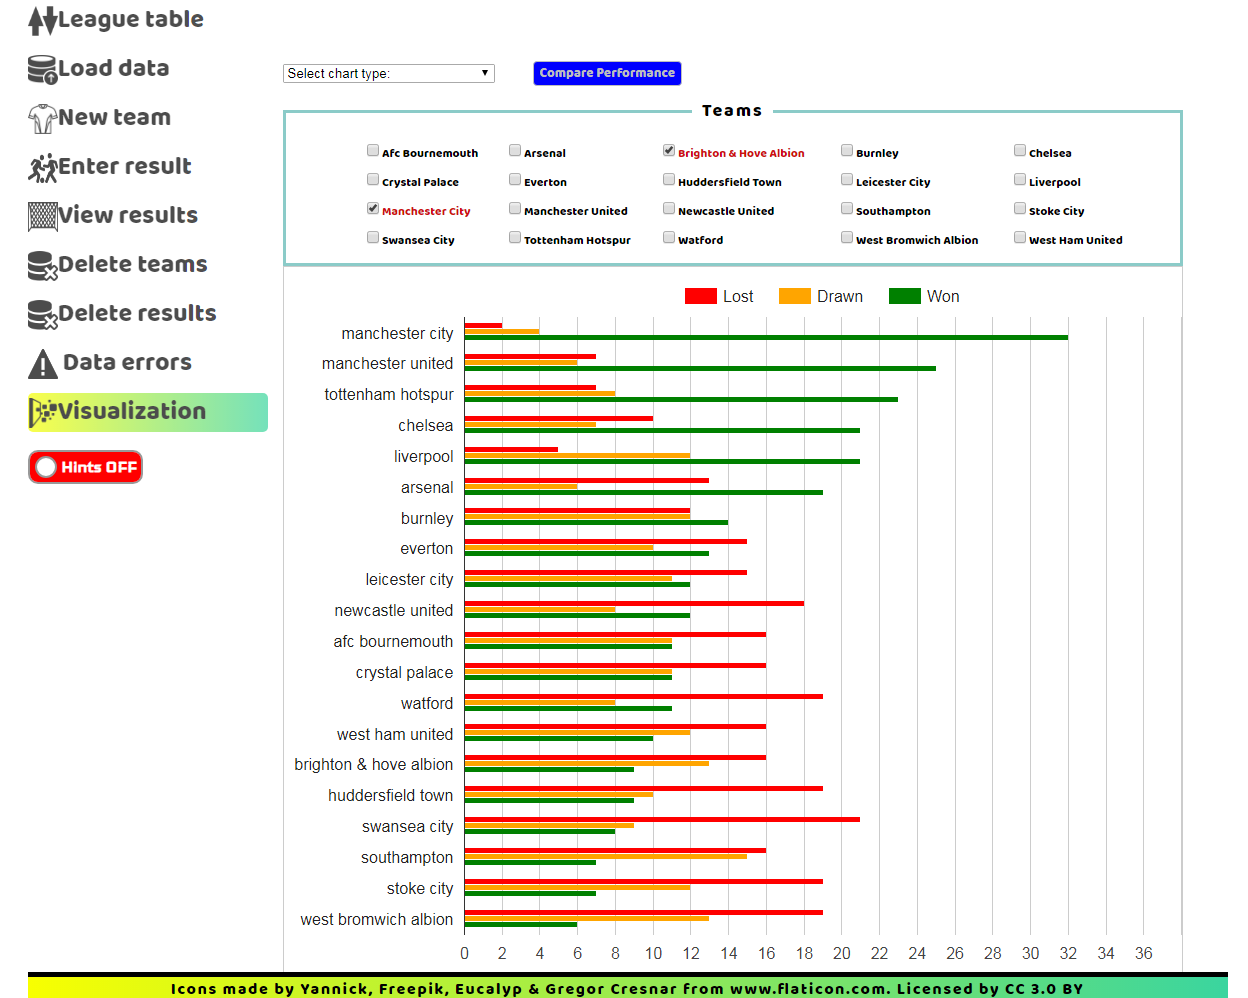
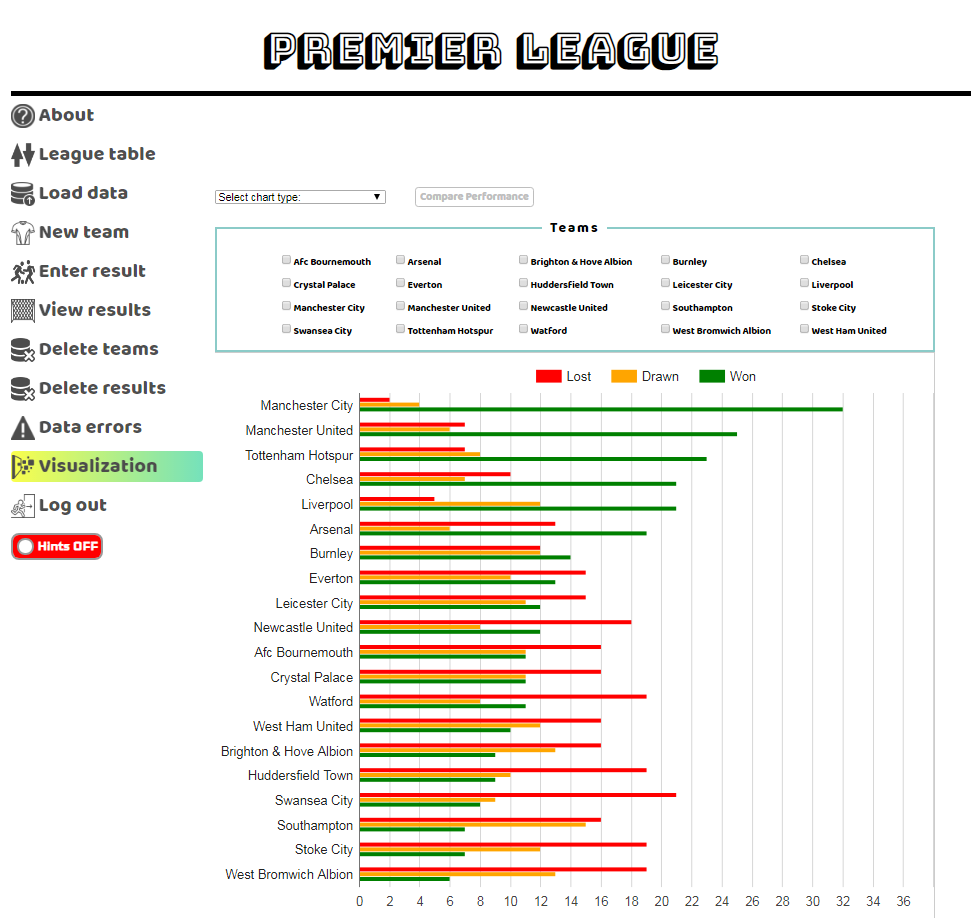
updated screenshots for readme and capitalised team names for chart data

Changed region(s): [[0.0, 0.0305, 1.0, 1.0], [0.0, 0.0, 0.1842, 0.0305]]

diff --git a/main_app.py b/main_app.py
@@ -583,12 +583,12 @@ def GetCharts():
         if len(teams_filter):
             for team in team_positions:
                 if team.team in teams_filter:
-                    t = dict(TeamName=team.team,Positions=team.position)
+                    t = dict(TeamName=team.team.title(),Positions=team.position)
                     team_positions_dict[team.team] = t
             return render_template('charts_home.html',team_data=team_positions_dict,team_list = team_list,chartToLoad=chartToLoad,state=state)
         else:
             for team in team_positions:
-                t = dict(TeamName=team.team,Positions=team.position)
+                t = dict(TeamName=team.team.title(),Positions=team.position)
                 team_positions_dict[team.team] = t
             return render_template('charts_home.html', team_data=team_positions_dict, team_list = team_list,chartToLoad=chartToLoad,state=state)
     else:
@@ -598,7 +598,7 @@ def GetCharts():
             teams = Team.select()
         teams_in_points_order = sorted(teams, key=methodcaller('points'), reverse=True)
         for team in teams_in_points_order:
-            team_positions_dict[team.name] = team.lost, team.drawn, team.won, team.points(), team.max_possible()
+            team_positions_dict[team.name.title()] = team.lost, team.drawn, team.won, team.points(), team.max_possible()
 
         if len(teams) > 0:
             return render_template('charts_home.html', team_data=team_positions_dict,team_list = team_list,chartToLoad=chartToLoad,state=state)
@@ -1006,4 +1006,4 @@ def set_week(result):
 if __name__ == '__main__':
     # app.secret_key ='1110bbec2d76fec87a308bab63299b687c7961f5698a00b9' #THIS SHOULD BE SET IN CONFIG - SECRET_KEY = 'string'
     app.send_file_max_age_default = 0
-    app.run(debug=False)
+    app.run(debug=True)

diff --git a/set_password.py b/set_password.py
@@ -2,7 +2,7 @@ import hashlib
 import sqlite3
 
 def set_hash_pw():
-    hashed = hashlib.sha256("!codingisfun!")
+    hashed = hashlib.sha256("PasswordOfYourChoice")
     stored = hashed.hexdigest()
     return stored
 
